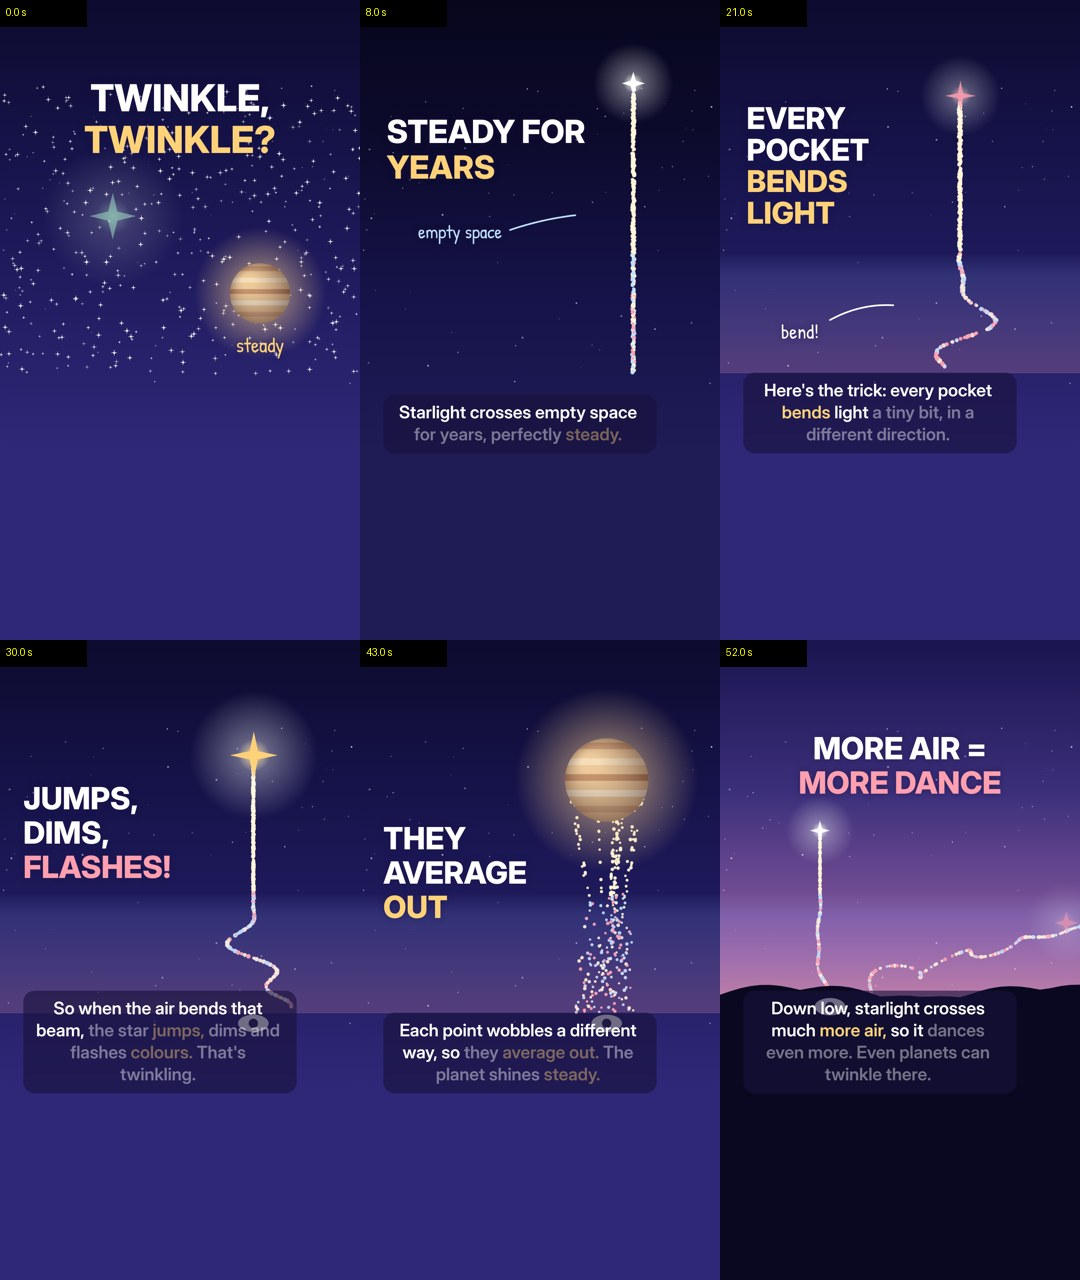
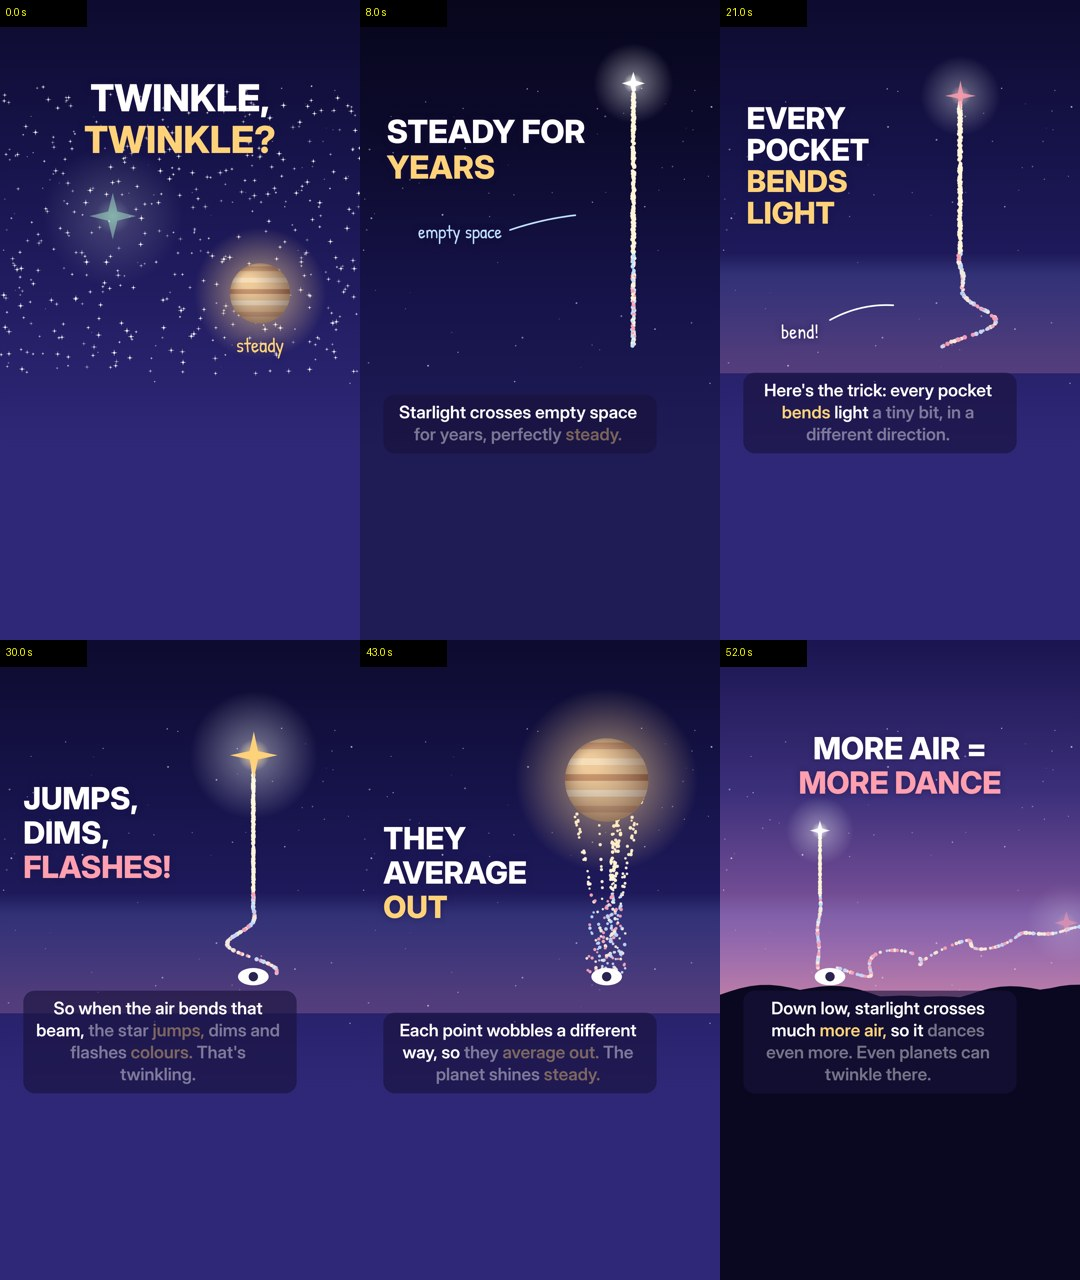
twinkle: eye + beam ends above the caption box (y 1010)
Claude-Session: https://claude.ai/code/session_01BPYB3p1FWoUGpnGH5tCKNK

diff --git a/reels/t_twinkle.js b/reels/t_twinkle.js
@@ -73,12 +73,12 @@ const F = {
   beam: (x0, y0, x1, y1, amp = 0, spread = 0) => (i, t) => { const q = HS[i], u = fr(q[0] + t * .35), y = lerp(y0, y1, u), x = lerp(x0, x1, u) + (q[1] - .5) * spread + kick(y, 1, t, amp); return [x, y]; },
   air: (i, t) => { const q = HS[i], u = q[0] * 2 - 1; return [CX + u * 560, (AT + AB) / 2 + (q[1] - .5) * 220 * (1 - .5 * Math.abs(u)) + 40 * Math.sin(u * 4 + t * 1.5)]; },
   pockets: (i, t) => { const q = HS[i], [a, b] = POCK[i % 9], cx = fr(a + t * .05 * (1 + b)) * (W + 300) - 150, cy = AT + 40 + b * (AB - AT - 80) + 30 * Math.sin(t * .7 + a * 9); return inCircle(q[2], q[3], cx, cy, 70 + 40 * hash(i % 9)); },
-  bent: (i, t) => { const q = HS[i], u = fr(q[0] + t * .35), y = lerp(300, 1100, u); let x = 720 + (q[1] - .5) * 6; const k = clamp((y - AT) / (AB - AT)); x += 120 * k * Math.sin(y * .015 + t * 2.4) + 60 * k * Math.sin(y * .041 - t * 3.3); return [x, y]; },
+  bent: (i, t) => { const q = HS[i], u = fr(q[0] + t * .35), y = lerp(300, 1040, u); let x = 720 + (q[1] - .5) * 6; const k = clamp((y - AT) / (AB - AT)); x += 120 * k * Math.sin(y * .015 + t * 2.4) + 60 * k * Math.sin(y * .041 - t * 3.3); return [x, y]; },
   disk: (cx, cy, r) => (i, t) => { const q = HS[i]; return inCircle(q[0], q[1], cx + 3 * Math.sin(t * 2 + i), cy + 3 * Math.cos(t * 2 + i), r); },
   // many beams from points on a planet disk to one eye; each wobbles differently, the bundle stays put
   beams: (cx, cy, r, ex, ey, amp) => (i, t) => { const q = HS[i], b = i % 14, [sx, sy] = inCircle(hash(b * 2.3), hash(b * 5.9), cx, cy, r), u = fr(q[0] + t * .35), y = lerp(sy, ey, u), x = lerp(sx, ex, u) + kick(y, b, t, amp); return [x, y]; },
   // two paths: overhead (short trip through the air) and toward the horizon (long, slanted, more kicks)
-  paths: (i, t) => { const q = HS[i], u = fr(q[0] + t * .35); if (i % 2) { const y = lerp(580, 1050, u); return [300 + kick(y, 2, t, 18), y]; } const x = lerp(1080, 360, u), y = lerp(860, 1050, u), k = clamp(u * 1.6); return [x + 30 * k * Math.sin(u * 30 + t * 3), y + 30 * k * Math.sin(u * 23 - t * 4)]; },
+  paths: (i, t) => { const q = HS[i], u = fr(q[0] + t * .35); if (i % 2) { const y = lerp(580, 990, u); return [300 + kick(y, 2, t, 18), y]; } const x = lerp(1080, 360, u), y = lerp(860, 990, u), k = clamp(u * 1.6); return [x + 30 * k * Math.sin(u * 30 + t * 3), y + 30 * k * Math.sin(u * 23 - t * 4)]; },
   band: (i, t) => { const q = HS[i], u = q[0] * 2 - 1; return [CX + u * 420, 1060 + (q[1] - .5) * 60 * (1 - Math.abs(u)) + 26 * Math.sin(u * 4 + t * 1.5)]; },
 };
 // particle styles: tw (twinkling background star), ph (photon: a small warm dot), pk (air pocket: soft warm or cool blob)
@@ -92,17 +92,17 @@ const SC = [];
 const on = () => .95;
 SC[0] = { bg: 'night', style: 'tw', form: F.field, pa: () => .9, draw: (lt, u, t) => { star(330, 640, 70, t, 1); planet(780, 880, 90, t); title([['TWINKLE,', '#fff'], ['TWINKLE?', WARMY]], 1, 300, 112); note('steady', 780, 1040, 1, WARMY, 62); } };
 SC[1] = { bg: 'night', style: 'pk', form: F.air, pa: on, sz: 1.4, draw: (lt, u, t) => { airBand(t, pop(lt)); star(CX, 520, 60, t, .9); title([["IT'S THE AIR", '#fff']], lt, 300, 100); note('our atmosphere', CX, 1120, lt - 1, ICEB, 56); } };
-SC[2] = { bg: 'deep', style: 'ph', form: F.beam(820, 260, 820, 1120, 0, 6), pa: on, draw: (lt, u, t) => { star(820, 250, 40, t, 0); titleL([['STEADY FOR', '#fff'], ['YEARS', WARMY]], lt, 80, 400, 96); note('empty space', 300, 700, lt - 1, ICEB, 56); arrow(450, 690, 780, 640, lt - 1.3, ICEB, -30); } };
-SC[3] = { bg: 'deep', style: 'ph', form: F.beam(820, 260, 820, 1120, 30, 6), pa: on, draw: (lt, u, t) => { streak(AT, lt / 1.2, t, ICEB); airBand(t, pop(lt - .4)); star(820, 250, 40, t, .3); titleL([['THE LAST', '#fff'], ['SPLIT', ICEB], ['SECOND', ICEB]], lt, 80, 400, 96); note('atmosphere', 230, AT - 50, lt - 1.2, ICEB, 56, 'left'); } };
+SC[2] = { bg: 'deep', style: 'ph', form: F.beam(820, 260, 820, 1040, 0, 6), pa: on, draw: (lt, u, t) => { star(820, 250, 40, t, 0); titleL([['STEADY FOR', '#fff'], ['YEARS', WARMY]], lt, 80, 400, 96); note('empty space', 300, 700, lt - 1, ICEB, 56); arrow(450, 690, 780, 640, lt - 1.3, ICEB, -30); } };
+SC[3] = { bg: 'deep', style: 'ph', form: F.beam(820, 260, 820, 1040, 30, 6), pa: on, draw: (lt, u, t) => { streak(AT, lt / 1.2, t, ICEB); airBand(t, pop(lt - .4)); star(820, 250, 40, t, .3); titleL([['THE LAST', '#fff'], ['SPLIT', ICEB], ['SECOND', ICEB]], lt, 80, 400, 96); note('atmosphere', 230, AT - 50, lt - 1.2, ICEB, 56, 'left'); } };
 SC[4] = { bg: 'night', style: 'pk', form: F.pockets, pa: on, sz: 1.6, draw: (lt, u, t) => { airBand(t, 1); title([['MOVING', '#fff'], ['POCKETS', PINK]], lt, 330, 104); note('warm', 230, AT - 60, lt - 1.2, '#ff9f80', 60); note('cool', 820, AT - 60, lt - 1.8, '#80b4ff', 60); } };
 SC[5] = { bg: 'night', style: 'ph', form: F.bent, pa: on, draw: (lt, u, t) => { airBand(t, 1); star(720, 290, 40, t, .4); titleL([['EVERY', '#fff'], ['POCKET', '#fff'], ['BENDS', WARMY], ['LIGHT', WARMY]], lt, 80, 360, 90, 1.05); arrow(330, 960, 560, 920, lt - 1.8, '#fff', -40); note('bend!', 240, 1000, lt - 1.6, '#fff', 60); } };
-SC[6] = { bg: 'deep', style: 'ph', form: F.beam(800, 330, 800, 1100, 70, 2), pa: on, sz: .9, draw: (lt, u, t) => { airBand(t, 1); star(800, 320, 26, t, .5); titleL([['ONE THIN', '#fff'], ['BEAM', WARMY]], lt, 80, 480, 100); note('a point', 560, 330, lt - 1, '#fff', 60, 'right'); arrow(580, 340, 760, 325, lt - 1.2, '#fff', -20); } };
-SC[7] = { bg: 'night', style: 'ph', form: F.beam(760, 360, 760, 1100, 110, 2), pa: on, draw: (lt, u, t) => { airBand(t, 1); star(760, 340, 64, t, 1); eye(760, 1150, pop(lt)); titleL([['JUMPS,', '#fff'], ['DIMS,', '#fff'], ['FLASHES!', PINK]], lt, 70, 480, 92); } };
+SC[6] = { bg: 'deep', style: 'ph', form: F.beam(800, 330, 800, 1040, 70, 2), pa: on, sz: .9, draw: (lt, u, t) => { airBand(t, 1); star(800, 320, 26, t, .5); titleL([['ONE THIN', '#fff'], ['BEAM', WARMY]], lt, 80, 480, 100); note('a point', 560, 330, lt - 1, '#fff', 60, 'right'); arrow(580, 340, 760, 325, lt - 1.2, '#fff', -20); } };
+SC[7] = { bg: 'night', style: 'ph', form: F.beam(760, 360, 760, 1000, 110, 2), pa: on, draw: (lt, u, t) => { airBand(t, 1); star(760, 340, 64, t, 1); eye(760, 1010, pop(lt)); titleL([['JUMPS,', '#fff'], ['DIMS,', '#fff'], ['FLASHES!', PINK]], lt, 70, 480, 92); } };
 SC[8] = { bg: 'night', style: 'ph', form: F.disk(CX, 600, 170), pa: () => .5, sz: .9, draw: (lt, u, t) => { planet(CX, 600, 180, t); title([['A TINY DISK', WARMY]], lt, 330, 100); note('much closer', CX, 880, lt - 1.4, '#fff', 60); } };
-SC[9] = { bg: 'night', style: 'ph', form: F.beams(740, 420, 120, 740, 1120, 0), pa: on, sz: .8, draw: (lt, u, t) => { airBand(t, 1); planet(740, 420, 125, t); titleL([['LOTS OF', '#fff'], ['POINTS', WARMY]], lt, 70, 640, 92); } };
-SC[10] = { bg: 'night', style: 'ph', form: F.beams(740, 420, 120, 740, 1120, 60), pa: on, sz: .8, draw: (lt, u, t) => { airBand(t, 1); planet(740, 420, 125, t); eye(740, 1150, 1); titleL([['THEY', '#fff'], ['AVERAGE', '#fff'], ['OUT', WARMY]], lt, 70, 600, 92); pill('STEADY', 280, 420, 260, 100, WARMY, INK, lt - 2.4); } };
+SC[9] = { bg: 'night', style: 'ph', form: F.beams(740, 420, 120, 740, 1000, 0), pa: on, sz: .8, draw: (lt, u, t) => { airBand(t, 1); planet(740, 420, 125, t); titleL([['LOTS OF', '#fff'], ['POINTS', WARMY]], lt, 70, 640, 92); } };
+SC[10] = { bg: 'night', style: 'ph', form: F.beams(740, 420, 120, 740, 1000, 60), pa: on, sz: .8, draw: (lt, u, t) => { airBand(t, 1); planet(740, 420, 125, t); eye(740, 1010, 1); titleL([['THEY', '#fff'], ['AVERAGE', '#fff'], ['OUT', WARMY]], lt, 70, 600, 92); pill('STEADY', 280, 420, 260, 100, WARMY, INK, lt - 2.4); } };
 SC[11] = { bg: 'dusk', style: 'tw', form: F.field, pa: () => .7, draw: (lt, u, t) => { ground(1); star(900, 980, 46, t, 1); title([['LOOK', '#fff'], ['LOW', PINK]], lt, 330, 120); note('horizon', 260, 1040, lt - 1, '#fff', 60); arrow(330, 1010, 760, 1000, lt - 1.4, '#fff', 30); } };
-SC[12] = { bg: 'dusk', style: 'ph', form: F.paths, pa: on, sz: .9, draw: (lt, u, t) => { airBand(t, 1); ground(1); star(300, 570, 34, t, .2); star(1040, 840, 40, t, 1); eye(330, 1100, 1); title([['MORE AIR =', '#fff'], ['MORE DANCE', PINK]], lt, 330, 92); } };
+SC[12] = { bg: 'dusk', style: 'ph', form: F.paths, pa: on, sz: .9, draw: (lt, u, t) => { airBand(t, 1); ground(1); star(300, 570, 34, t, .2); star(1040, 840, 40, t, 1); eye(330, 1010, 1); title([['MORE AIR =', '#fff'], ['MORE DANCE', PINK]], lt, 330, 92); } };
 SC[13] = { bg: 'night', style: 'tw', form: F.field, pa: () => .6, draw: (lt, u, t) => { star(300, 700, 80, t, 1); planet(790, 700, 100, t); note('a point', 300, 900, lt - .4, '#fff', 64); note('a disk', 790, 900, lt - 1.8, WARMY, 64); title([['POINT VS', '#fff'], ['DISK', WARMY]], lt, 330, 112); } };
 SC[14] = { bg: 'dusk', style: 'tw', form: F.field, pa: () => .7, draw: (lt, u, t) => { ground(1); planet(760, 640, 60, t); note('planet', 760, 760, lt - .4, WARMY, 56); title([['SPOTTED', '#fff'], ['ONE?', WARMY]], lt, 330, 112); pill('YES', 400, 980, 220, 104, WARMY, INK, lt - .9); pill('NO', 660, 980, 190, 104, '#fff', INK, lt - 1.1); } };
 SC[15] = { bg: 'deep', style: 'ph', form: F.band, pa: () => .7, sz: .8, draw: (lt, u, t) => { const a = pop(lt);
